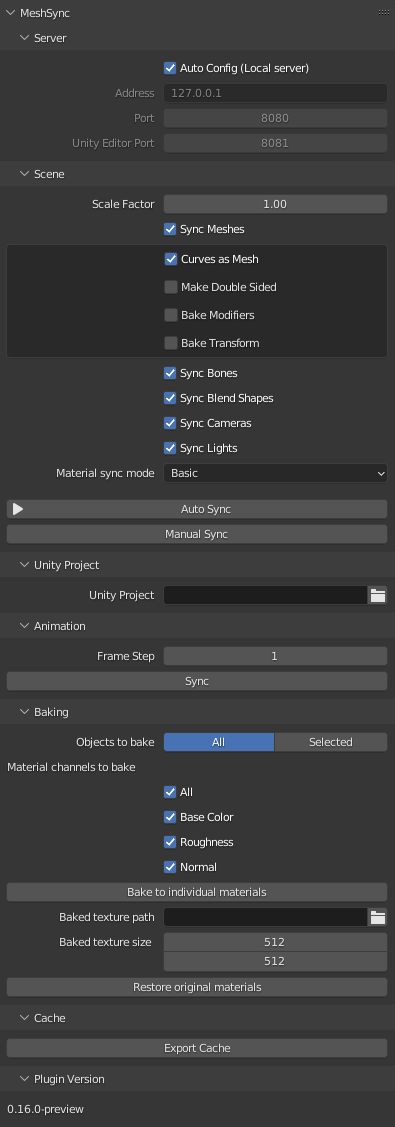
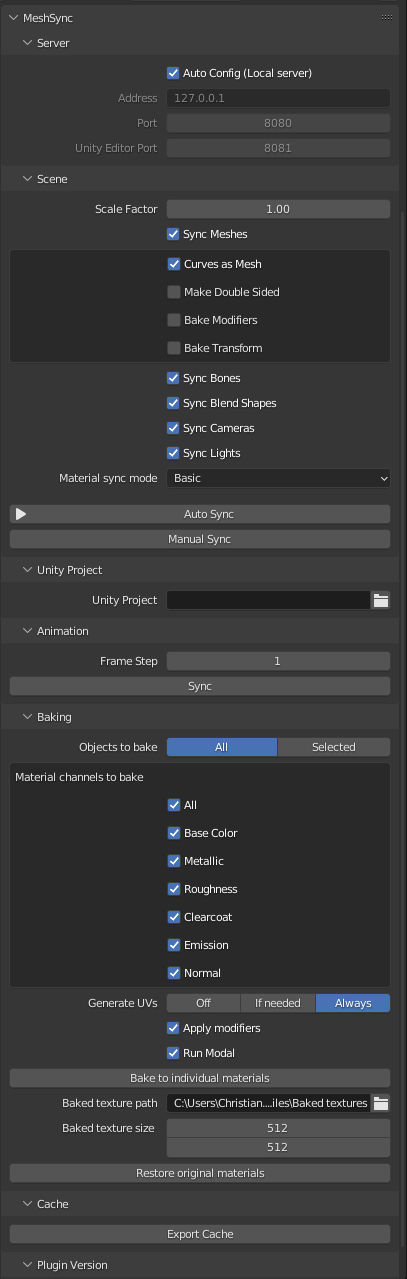
Updating docs

diff --git a/Documentation~/Blender.md b/Documentation~/Blender.md
@@ -106,6 +106,9 @@ MeshSync has functionality to create baked material copies for each object to al
 |:---     |:---|
 | Objects to bake | Bakes all objects in the scene or only selected objects (including hidden objects). |
 | Material channels to bake | Choose which channels should be baked. |
+| Generate UVs | Off: Uses UVs on the object, If needed: Generates UVs if there are no usable UVs on the object, Always: Always generates UVs for baking, even if there are existing UVs. NOTE: These settings can be destructive to existing UVs. |
+| Apply modifiers | Applies all modifiers on the object to ensure the UV coordinates are correct for baking. |
+| Run modal | Redraws the blender UI periodically so blender does not freeze. |
 | Bake to individual materials | Performs the bake. |
 | Restore original materials | Removes the baked material copies and assigns the original materials back to all objects in the scene. |
 | Baked texture path | Folder to save baked textures in. |
